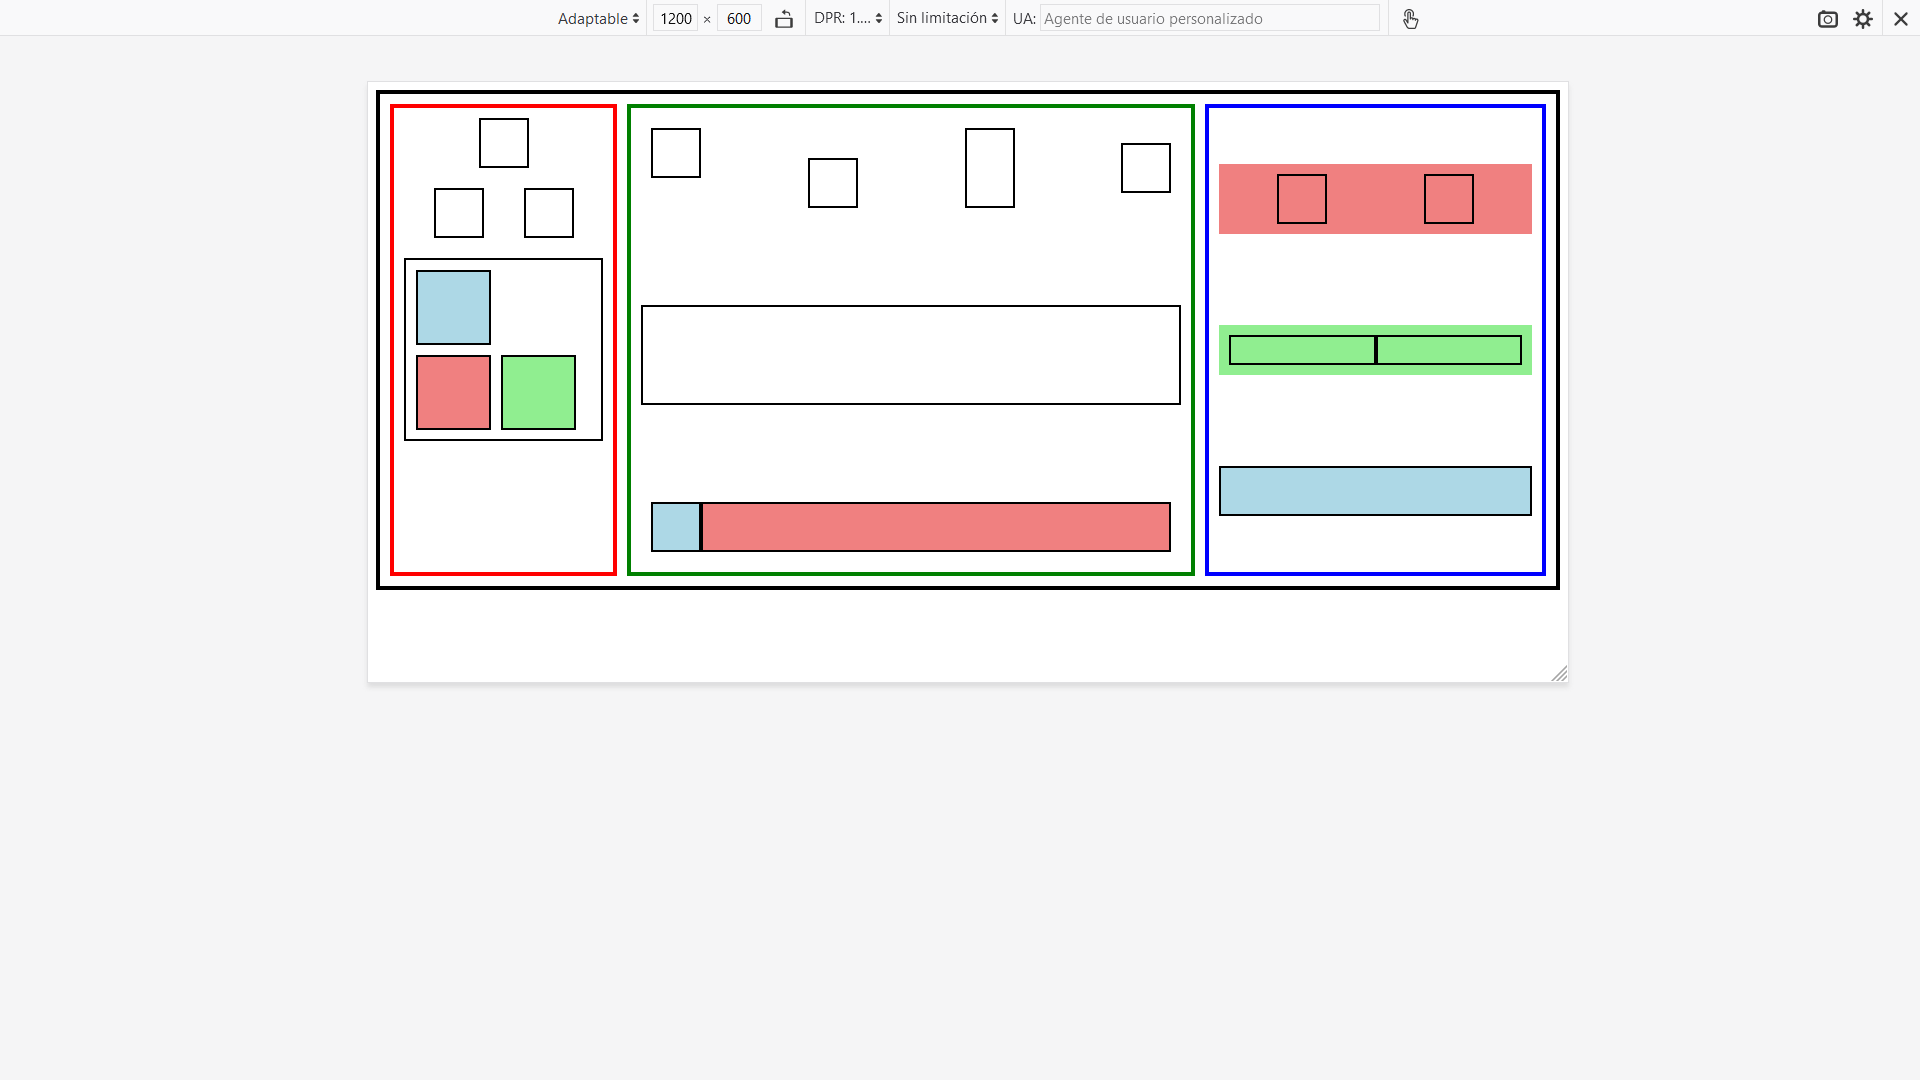
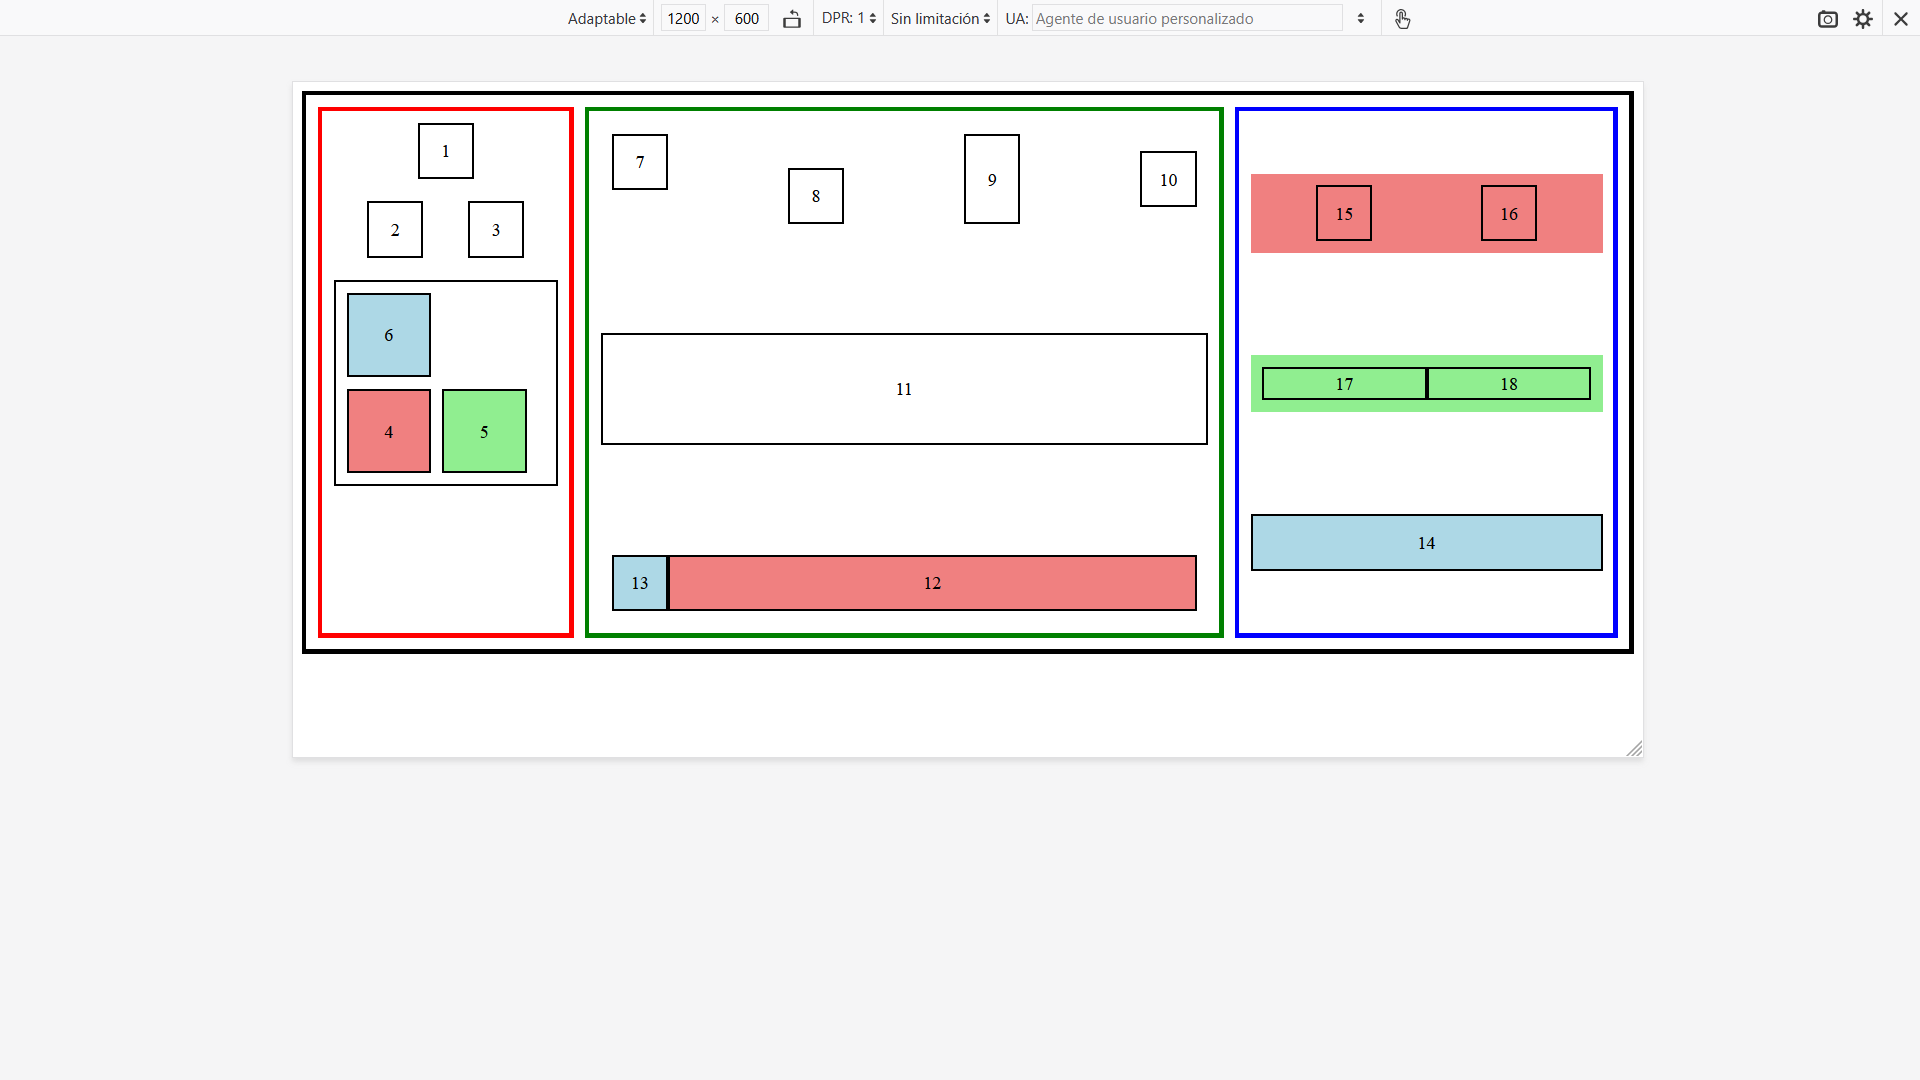
Mejora las imágenes del ejercicio 2 de flex

diff --git a/5. Flex/5.4. Ejercicios flex (II)/index.html b/5. Flex/5.4. Ejercicios flex (II)/index.html
@@ -11,41 +11,41 @@
 <body>
   <div id="container-ppal">
     <div id="container-izq">
-      <div id="container-izq-1">1</div>
+      <div id="container-izq-1" class="centrado">1</div>
       <div id="container-izq-2">
-        <div id="container-izq-3">2</div>
-        <div id="container-izq-4">3</div>
+        <div id="container-izq-3" class="centrado">2</div>
+        <div id="container-izq-4" class="centrado">3</div>
       </div>
       <div id="container-izq-5">
-        <div id="container-izq-6">4</div>
-        <div id="container-izq-7">5</div>
-        <div id="container-izq-8">6</div>
+        <div id="container-izq-6" class="centrado">4</div>
+        <div id="container-izq-7" class="centrado">5</div>
+        <div id="container-izq-8" class="centrado">6</div>
       </div>
     </div>
 
     <div id="container-centro">
       <div id="container-centro-1">
-        <div id="container-centro-4">7</div>
-        <div id="container-centro-5">8</div>
-        <div id="container-centro-6">9</div>
-        <div id="container-centro-7">10</div>
+        <div id="container-centro-4" class="centrado">7</div>
+        <div id="container-centro-5" class="centrado">8</div>
+        <div id="container-centro-6" class="centrado">9</div>
+        <div id="container-centro-7" class="centrado">10</div>
       </div>
-      <div id="container-centro-2">11</div>
+      <div id="container-centro-2" class="centrado">11</div>
       <div id="container-centro-3">
-        <div id="container-centro-8">12</div>
-        <div id="container-centro-9">13</div>
+        <div id="container-centro-8" class="centrado">12</div>
+        <div id="container-centro-9" class="centrado">13</div>
       </div>
     </div>
 
     <div id="container-dcha">
-      <div id="container-dcha-1">14</div>
+      <div id="container-dcha-1" class="centrado">14</div>
       <div id="container-dcha-2">
-        <div id="container-dcha-4">15</div>
-        <div id="container-dcha-5">16</div>
+        <div id="container-dcha-4" class="centrado">15</div>
+        <div id="container-dcha-5" class="centrado">16</div>
       </div>
       <div id="container-dcha-3">
-        <div id="container-dcha-6">17</div>
-        <div id="container-dcha-7">18</div>
+        <div id="container-dcha-6" class="centrado">17</div>
+        <div id="container-dcha-7" class="centrado">18</div>
       </div>
     </div>
 

diff --git a/5. Flex/5.4. Ejercicios flex (II)/estilos-enunciado.css b/5. Flex/5.4. Ejercicios flex (II)/estilos-enunciado.css
@@ -9,6 +9,12 @@ div {
   border: 4px solid black;
 }
 
+.centrado {
+  display: flex;
+  justify-content: center;
+  align-items: center;
+}
+
 /***************** Contenedor izquierda *****************/
 #container-izq {
   border: 4px solid red;
@@ -34,7 +40,8 @@ div {
   height: 50px;
 }
 
-#container-izq #container-izq-5 {}
+#container-izq #container-izq-5 {
+}
 
 #container-izq #container-izq-6 {
   background-color: lightcoral;
@@ -136,6 +143,8 @@ div {
   height: 50px;
 }
 
-#container-dcha #container-dcha-6 {}
+#container-dcha #container-dcha-6 {
+}
 
-#container-dcha #container-dcha-7 {}
+#container-dcha #container-dcha-7 {
+}
